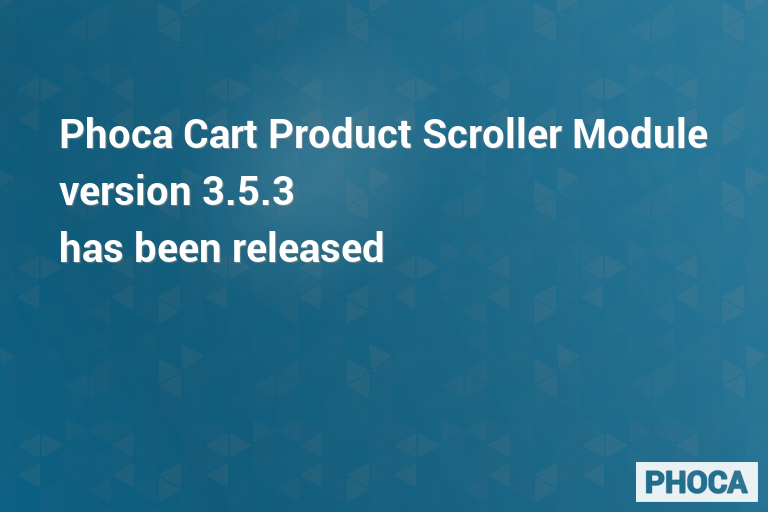
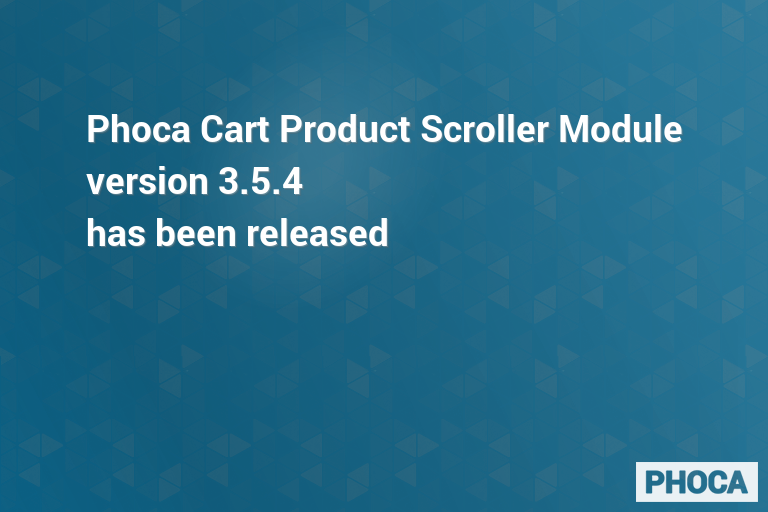
3.5.4
3.5.4

Changed region(s): [[0.0625, 0.2188, 0.9375, 0.5312]]

diff --git a/mod_phocacart_product_scroller.php b/mod_phocacart_product_scroller.php
@@ -166,5 +166,5 @@ $products			= PhocacartProduct::getProducts(0, $p['item_limit'], $p['item_orderi
 $t['pathitem'] 		= PhocacartPath::getPath('productimage');
 
 
-require(JModuleHelper::getLayoutPath('mod_phocacart_product_scroller'));
+require(JModuleHelper::getLayoutPath('mod_phocacart_product_scroller', $params->get('layout', 'default')));
 ?>

diff --git a/README.MD b/README.MD
@@ -56,7 +56,7 @@ Phoca Cart Product Scroller Module - a Joomla! CMS module which displays product
 
 ## Version
 
-3.5.3
+3.5.4
 
 
 
